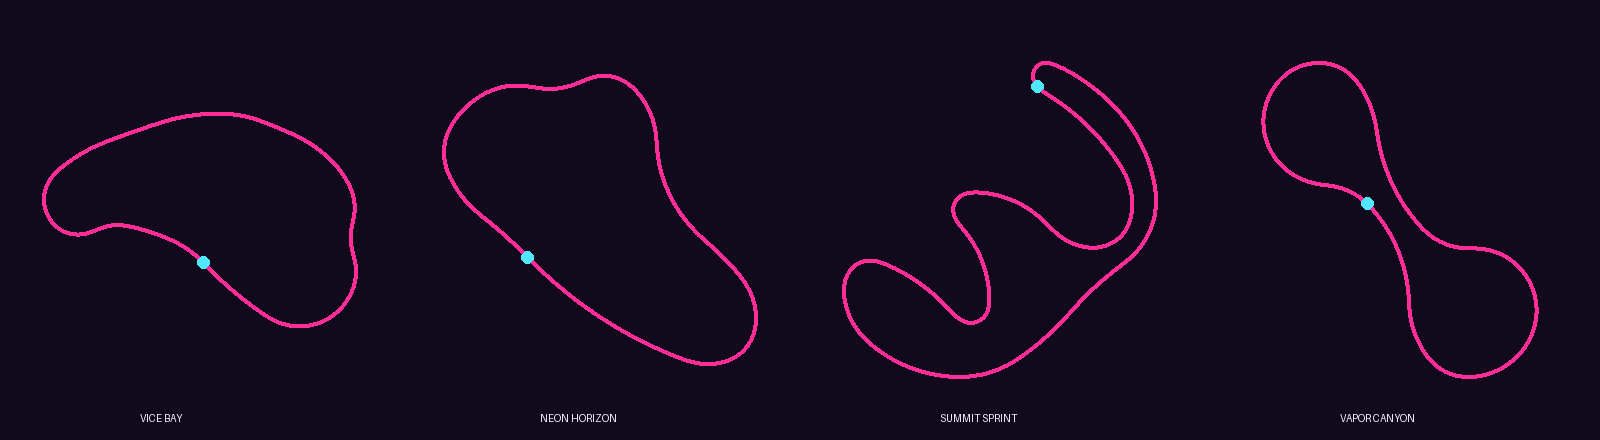
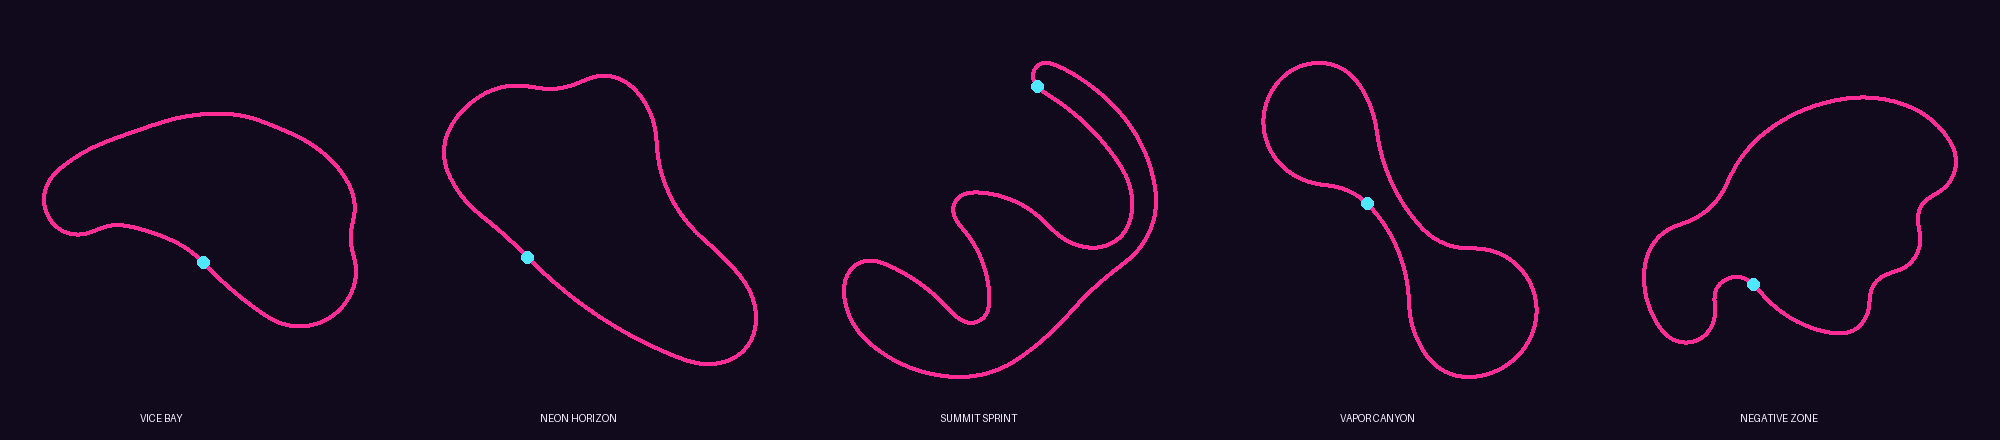
Add Negative Zone — a black-and-white themed circuit, and the theme system
The fifth event, and the first with its own LOOK. TrackDef gains an
optional `theme` field; because the active def is resolved at module
evaluation, a theme can flip the palette at its sources with zero
runtime cost:

- 'negative' develops the world to stark monochrome: the atmosphere
  calibration goes achromatic (near-black zenith to white horizon,
  pure white key light, grey fill and bounce, neutral Mie collar), the
  ambient floors grey out, the kerbs paint black-and-white, and the
  master stroke is the grade — saturation zero, contrast up to 0.34,
  neutral split-tone. One knob converts every material, the water, the
  effects and the sky in a single pass. The HUD deliberately keeps its
  neon identity so the UI still reads as NEON DRIFT.

The circuit itself matches the look: a jagged BOLT silhouette —
five alternating sawtooth teeth (+/-90-100 degrees), a long flat-out
blade along a monochrome sea, a notch, and a closing +/-155 hairpin
complex onto the line. Waypoint-designed, closure residual 5 mm,
1.65 km, guardrails throughout (the Vapor Canyon lesson).

Gate: clean PASS first try — 24/24 laps, median 1:04, spread 46s-1:17.
Five events on the select screen; silhouette chart regenerated.

diff --git a/src/world/TrackDefs.ts b/src/world/TrackDefs.ts
@@ -81,6 +81,12 @@ export interface TrackDef {
   /** which set of bespoke scenery dressers runs — see Scenery.init */
   kit: 'coastal' | 'gridline';
   /**
+   * Optional per-circuit look. 'negative' develops the world to stark black
+   * and white: achromatic sky calibration, zero saturation in the grade,
+   * black-and-white kerb paint. Absent = the synthwave dusk.
+   */
+  theme?: 'negative';
+  /**
    * Race length in laps. 1 makes the event a SPRINT: one standing-start run
    * from the line back round to it, presented without a lap counter. The
    * engine's closed-loop invariants (cyclic centreline, checkpoints, AI line)
@@ -563,9 +569,101 @@ const VAPOR_CANYON: TrackDef = {
 };
 
 // ===========================================================================
+//  NEGATIVE ZONE — black and white, all edges, no comfort
+//
+//  The first themed circuit: `theme: 'negative'` develops the whole world to
+//  monochrome at boot (Atmosphere targets go achromatic, the grade's
+//  saturation drops to zero, the kerbs paint black-and-white). The silhouette
+//  matches the identity: a jagged BOLT — five sawtooth teeth up the east
+//  edge, a long fast blade, and a closing hairpin complex. Waypoint-designed,
+//  closure residual 5 mm.
+// ===========================================================================
+const NEGATIVE_ZONE: TrackDef = {
+  id: 'negative-zone',
+  name: 'Negative Zone',
+  dressLabel: 'developing the negative',
+  kit: 'gridline',
+  theme: 'negative',
+  laps: 3,
+  legs: [
+    [172, -46.71],   // v0  0.000 start straight, drifting left
+    [89, -100.76],   // v1  0.104 tooth 1 (left)
+    [69, 88.52],     // v2  0.158 tooth 2 (right)
+    [100, -102.64],  // v3  0.200 tooth 3 (left)
+    [69, 90.15],     // v4  0.260 tooth 4 (right)
+    [100, -96.84],   // v5  0.302 tooth 5 (left)
+    [97, -36.27],    // v6  0.363 the blade begins
+    [112, -29.77],   // v7  0.422 blade sweeper
+    [151, -28.52],   // v8  0.489 blade flat-out
+    [119, -31.22],   // v9  0.581 blade exit
+    [111, 52.62],    // v10 0.653 the notch (right)
+    [93, -64.67],    // v11 0.721 notch out (left)
+    [125, -46.74],   // v12 0.777 west sweep
+    [141, -154.00],  // v13 0.853 THE BOLT — closing hairpin left
+    [102, 157.05],   // v14 0.938 ...and its mirror right, onto the line
+  ],
+  startHeading: -2.6,
+  elevation: [
+    [0.000, 5.0], [0.100, 6.0], [0.160, 9.0], [0.200, 7.0],
+    [0.260, 10.0], [0.300, 8.0], [0.363, 12.0], [0.490, 16.0],
+    [0.581, 14.0], [0.653, 10.0], [0.721, 12.0], [0.777, 9.0],
+    [0.853, 7.0], [0.938, 5.5],
+  ],
+  halfWidth: [
+    [0.000, 8.8], [0.090, 8.0], [0.160, 7.2], [0.300, 7.2],
+    [0.363, 7.6], [0.490, 8.0], [0.653, 7.0], [0.721, 6.6],
+    [0.777, 7.2], [0.853, 7.6], [0.905, 6.8], [0.960, 8.2],
+  ],
+  bank: [
+    [0.000, 0],
+    [0.115, 10], [0.175, -10], [0.225, 10], [0.280, -10], [0.330, 8],
+    [0.400, 6], [0.490, 8], [0.600, 8],
+    [0.680, -8], [0.740, 8], [0.810, 6],
+    [0.880, 14], [0.925, 4], [0.955, -14], [0.990, -2],
+  ],
+  zones: [
+    { t0: 0.000, fade: 0.016, name: 'start',
+      nearL: [0, -0.4, 1.6], farL: 14, farDL: 110, rockL: 0.2, shoulderL: 7, surfL: Surface.Grass, wallL: WALL_GUARDRAIL, wallOffL: 3.4,
+      nearR: [-0.3, -1.2, -2.6], farR: 12, farDR: 110, rockR: 0.3, shoulderR: 7, surfR: Surface.Dirt, wallR: WALL_GUARDRAIL, wallOffR: 3.6,
+      cobble: 0, kerb: 1 },
+    { t0: 0.095, fade: 0.012, name: 'teeth',
+      nearL: [0, -0.4, 1.8], farL: 18, farDL: 100, rockL: 0.45, shoulderL: 5, surfL: Surface.Dirt, wallL: WALL_GUARDRAIL, wallOffL: 2.9,
+      nearR: [-0.3, -1.2, -3.0], farR: 14, farDR: 100, rockR: 0.45, shoulderR: 5, surfR: Surface.Dirt, wallR: WALL_GUARDRAIL, wallOffR: 2.9,
+      cobble: 0, kerb: 1 },
+    { t0: 0.355, fade: 0.020, name: 'blade',
+      nearL: [0, -0.5, 1.6], farL: 22, farDL: 120, rockL: 0.3, shoulderL: 8, surfL: Surface.Grass, wallL: WALL_GUARDRAIL, wallOffL: 3.2,
+      nearR: [-0.4, -1.6, -3.0], farR: -6, farDR: 80, rockR: 0.1, shoulderR: 11, surfR: Surface.Sand, wallR: WALL_NONE, wallOffR: 0,
+      cobble: 0, kerb: 1 },
+    { t0: 0.645, fade: 0.014, name: 'notch',
+      nearL: [0, -0.5, 1.8], farL: 16, farDL: 110, rockL: 0.35, shoulderL: 6, surfL: Surface.Grass, wallL: WALL_GUARDRAIL, wallOffL: 2.7,
+      nearR: [-0.3, -1.4, -3.6], farR: 12, farDR: 100, rockR: 0.35, shoulderR: 6, surfR: Surface.Grass, wallR: WALL_GUARDRAIL, wallOffR: 2.7,
+      cobble: 0, kerb: 1 },
+    { t0: 0.770, fade: 0.014, name: 'sweep',
+      nearL: [0, -0.4, 1.6], farL: 14, farDL: 110, rockL: 0.25, shoulderL: 7, surfL: Surface.Grass, wallL: WALL_GUARDRAIL, wallOffL: 3.2,
+      nearR: [-0.4, -1.6, -3.4], farR: 10, farDR: 100, rockR: 0.3, shoulderR: 7, surfR: Surface.Grass, wallR: WALL_GUARDRAIL, wallOffR: 3.2,
+      cobble: 0, kerb: 1 },
+    { t0: 0.845, fade: 0.012, name: 'bolt',
+      nearL: [0, -0.4, 1.6], farL: 12, farDL: 100, rockL: 0.3, shoulderL: 6, surfL: Surface.Grass, wallL: WALL_GUARDRAIL, wallOffL: 2.7,
+      nearR: [-0.3, -1.2, -3.0], farR: 10, farDR: 100, rockR: 0.3, shoulderR: 6, surfR: Surface.Grass, wallR: WALL_GUARDRAIL, wallOffR: 2.7,
+      cobble: 0, kerb: 1 },
+  ],
+  tunnel: null,
+  bridge: null,
+  boostPads: [
+    { t0: 0.0400, t1: 0.0570, lat: -3.0, hw: 2.0 },
+    { t0: 0.0400, t1: 0.0570, lat: 3.0, hw: 2.0 },
+    { t0: 0.5200, t1: 0.5370, lat: -2.9, hw: 1.9 },
+    { t0: 0.5200, t1: 0.5370, lat: 2.9, hw: 1.9 },
+    { t0: 0.8000, t1: 0.8170, lat: 0.0, hw: 2.6 },
+  ],
+  boxRows: [0.070, 0.140, 0.220, 0.310, 0.400, 0.470, 0.560, 0.630, 0.740, 0.890],
+  hoardingZones: [[0, 0.09], [0.42, 0.60]],
+};
+
+// ===========================================================================
 //  Registry + active-track resolution
 // ===========================================================================
-export const TRACKS: TrackDef[] = [SUNSET_BAY, NEON_HORIZON, SUMMIT_SPRINT, VAPOR_CANYON];
+export const TRACKS: TrackDef[] = [SUNSET_BAY, NEON_HORIZON, SUMMIT_SPRINT, VAPOR_CANYON, NEGATIVE_ZONE];
 
 export const TRACK_STORAGE_KEY = 'kr.track';
 

diff --git a/src/render/Atmosphere.ts b/src/render/Atmosphere.ts
@@ -25,6 +25,7 @@
  * ============================================================================
  */
 import * as THREE from 'three';
+import { ACTIVE_TRACK } from '../world/TrackDefs';
 import { createNoise4D } from 'simplex-noise';
 
 // --- art bible constants -----------------------------------------------------
@@ -82,16 +83,19 @@ export const SUN_DIRECTION = (() => {
   // is untouched by construction
   return new THREE.Vector3(x * c - z * s, v.y, x * s + z * c).normalize();
 })();
+/** The negative theme flattens every light to achromatic. */
+const NEG = ACTIVE_TRACK.theme === 'negative';
 /**
  * Key light colour — synthwave restyle. The bible's golden-hour 0xffd9a8 moves
  * to a warm neon pink; still warm enough to read as a low sun, saturated
- * enough that every lit flank carries the magenta half of the split.
+ * enough that every lit flank carries the magenta half of the split. Under
+ * the negative theme the key is pure white — film lighting, not stage.
  */
-export const SUN_LIGHT_COLOR = 0xffb4c4;
+export const SUN_LIGHT_COLOR = NEG ? 0xffffff : 0xffb4c4;
 /** Ground bounce follows the sand/tarmac shift: dusty violet, not amber. */
-export const GROUND_BOUNCE_COLOR = 0x9a62b8;
+export const GROUND_BOUNCE_COLOR = NEG ? 0x9a9a9a : 0x9a62b8;
 /** Cool fill goes full cyan — the other half of the synthwave split. */
-export const SKY_FILL_COLOR = 0x7edcff;
+export const SKY_FILL_COLOR = NEG ? 0xc4c4c8 : 0x7edcff;
 /**
  * Direction TOWARD the cool fill: 35° up, on the ANTI-solar side.
  *
@@ -144,8 +148,8 @@ export const SKY_FILL_DIRECTION = new THREE.Vector3(
  * Rayleigh gains against these at boot, so the dome, the env map and the fog
  * all land on the new palette together.
  */
-export const SKY_ZENITH_TARGET = 0x4a54c8;
-export const SKY_HORIZON_TARGET = 0xffaec6;
+export const SKY_ZENITH_TARGET = NEG ? 0x121216 : 0x4a54c8;
+export const SKY_HORIZON_TARGET = NEG ? 0xf0f0f0 : 0xffaec6;
 
 // --- model constants ---------------------------------------------------------
 
@@ -186,7 +190,7 @@ const RAYLEIGH_BACKSCATTER = 0.40;
 /** Arbitrary radiometric scale; the calibration layer removes the ambiguity. */
 const SUN_ENERGY = 22;
 /** Aerosols run magenta — this is what gives the disc its neon collar. */
-const MIE_TINT = [1.0, 0.62, 0.78];
+const MIE_TINT = NEG ? [1.0, 1.0, 1.0] : [1.0, 0.62, 0.78];
 /**
  * Elevation (dir.y) at which the horizon gain has fully handed over to zenith.
  * 0.42 rather than 0.35: the warm band has to survive up to ~25° or the sky

diff --git a/src/render/PostFX.ts b/src/render/PostFX.ts
@@ -29,6 +29,7 @@
  * ============================================================================
  */
 import * as THREE from 'three';
+import { ACTIVE_TRACK } from '../world/TrackDefs';
 import {
   BloomEffect,
   BlendFunction,
@@ -723,9 +724,12 @@ export class GradeEffect extends Effect {
         // hair of headroom at the same time.
         // Synthwave split-tone: cyan shadows, magenta highlights. Same total
         // luminance discipline as the teal/amber pair it replaces — the tints
-        // rotate hue, they do not add energy.
-        ['coolTint', new THREE.Uniform(new THREE.Vector3(0.868, 1.005, 1.085))],
-        ['warmTint', new THREE.Uniform(new THREE.Vector3(1.105, 0.955, 1.045))],
+        // rotate hue, they do not add energy. The negative theme runs both
+        // neutral: a split-tone on a monochrome frame is just a colour cast.
+        ['coolTint', new THREE.Uniform(ACTIVE_TRACK.theme === 'negative'
+          ? new THREE.Vector3(1.0, 1.0, 1.0) : new THREE.Vector3(0.868, 1.005, 1.085))],
+        ['warmTint', new THREE.Uniform(ACTIVE_TRACK.theme === 'negative'
+          ? new THREE.Vector3(1.0, 1.0, 1.0) : new THREE.Vector3(1.105, 0.955, 1.045))],
         // Additive teal lift on the bottom of the curve — art bible §2 asks for
         // a #a8c8ff sky fill in the shadows, and nothing multiplicative can
         // produce it. Sized to sit just above the noise floor of an 8-bit write.
@@ -1267,11 +1271,12 @@ export class PostFX {
     const grade = new GradeEffect({
       samples,
       exposure: 1.05,
-      contrast: 0.18,
-      // A notch up for the neon palette — the split-tone rotates hue, this
-      // makes the rotated colour commit.
-      saturation: 1.22,
-      vignette: 0.24,
+      // The negative theme is THE grade: saturation zero develops the whole
+      // world to black and white in one knob, and the contrast comes up to
+      // make it graphic rather than merely grey.
+      contrast: ACTIVE_TRACK.theme === 'negative' ? 0.34 : 0.18,
+      saturation: ACTIVE_TRACK.theme === 'negative' ? 0.0 : 1.22,
+      vignette: ACTIVE_TRACK.theme === 'negative' ? 0.30 : 0.24,
       // Trimmed with the shadow rolloff added in the shader — the grain was
       // never the coloured speckle the review saw, but at 0.012 flat it was
       // still +/-1.8 counts of white noise sitting on top of the darkest eighth

diff --git a/src/render/Sky.ts b/src/render/Sky.ts
@@ -86,7 +86,7 @@ import {
   buildSkyFragmentShader,
   hazeGlsl,
 } from './Atmosphere';
-import { HAS_TUNNEL, TUNNEL_T0, TUNNEL_T1 } from '../world/TrackLayout';
+import { ACTIVE_TRACK, HAS_TUNNEL, TUNNEL_T0, TUNNEL_T1 } from '../world/TrackLayout';
 
 // --- tuning ------------------------------------------------------------------
 
@@ -456,8 +456,8 @@ const LATERAL_BOUNCE_SLOPE = -0.14;
  */
 const FLOOR_IRRADIANCE = 0.185;
 // Synthwave: the colour of every unlit pixel goes violet, matching the indigo
-// zenith the calibration now targets.
-const FLOOR_COLOR = 0x8272c8;
+// zenith the calibration now targets. The negative theme greys it out.
+const FLOOR_COLOR = ACTIVE_TRACK.theme === 'negative' ? 0x9a9aa0 : 0x8272c8;
 /**
  * The same floor inside an interior volume, warm sodium instead of teal. The
  * tunnel's premise is sodium strips; rock that falls off the bottom of the
@@ -473,8 +473,8 @@ const FLOOR_COLOR = 0x8272c8;
  */
 const INTERIOR_FLOOR_IRRADIANCE = 0.70;
 // The tunnel premise moves from sodium strips to neon: unlit bore rock reads
-// magenta-warm instead of amber.
-const INTERIOR_FLOOR_COLOR = 0xb64a92;
+// magenta-warm instead of amber — or bare fluorescent grey on the negative.
+const INTERIOR_FLOOR_COLOR = ACTIVE_TRACK.theme === 'negative' ? 0xc8c8c8 : 0xb64a92;
 /**
  * Warm penumbra band, art bible §2 ("long, soft, warm-tinted penumbra").
  * Added where the shadow test is partial, peaking at the half-shadow line and

diff --git a/src/world/TrackGeometry.ts b/src/world/TrackGeometry.ts
@@ -23,6 +23,7 @@ import type { Ctx } from '../types';
 import { Surface } from '../types';
 import type { Track } from './Track';
 import {
+  ACTIVE_TRACK,
   BOOST_PADS, BRIDGE_T0, BRIDGE_T1, FASCIA_OFF, GRID_BOX_HL, GRID_BOX_HW,
   GRID_LAT, HAS_BRIDGE, HAS_TUNNEL, KERB_HS, KERB_QS, KERB_W, PARAPET_OFF, SEA_Y,
   SKIRT_W, TUNNEL_CLEAR, TUNNEL_H, TUNNEL_T0, TUNNEL_T1, WALL_GUARDRAIL,
@@ -42,7 +43,7 @@ import { registerPrewarm } from '../core/Prewarm';
 // was tuned against those luminances and rides on top of these.
 const C_TARMAC = new THREE.Color('#42425e');
 const C_RACE = new THREE.Color('#373752');
-const C_KERB_R = new THREE.Color('#ff2d95');
+const C_KERB_R = new THREE.Color(ACTIVE_TRACK.theme === 'negative' ? '#141414' : '#ff2d95');
 const C_KERB_W = new THREE.Color('#e6f8ff');
 const C_SAND = new THREE.Color('#d9b9de');
 const C_GRASS = new THREE.Color('#2f9c85');

diff --git a/src/ui/ui.css b/src/ui/ui.css
@@ -1861,8 +1861,8 @@ html[data-touch][data-touch-hand="left"] .kr .kr-pos {
   color: rgba(255, 252, 244, 0.62);
   line-height: 1.35;
 }
-.kr-s-track .kr-roster { grid-template-columns: repeat(4, minmax(0, 23vmin)); justify-content: center; }
-@media (max-aspect-ratio: 1/1) { .kr-s-track .kr-roster { grid-template-columns: repeat(2, minmax(0, 42vmin)); } }
+.kr-s-track .kr-roster { grid-template-columns: repeat(5, minmax(0, 19.5vmin)); justify-content: center; }
+@media (max-aspect-ratio: 1/1) { .kr-s-track .kr-roster { grid-template-columns: repeat(2, minmax(0, 40vmin)); } }
 
 .kr-stats { margin-top: 1vmin; display: flex; flex-direction: column; gap: 0.55vmin; }
 .kr-stat { display: grid; grid-template-columns: 4.6em 1fr; align-items: center; gap: 0.6em; }

diff --git a/src/ui/Menus.ts b/src/ui/Menus.ts
@@ -23,6 +23,7 @@ const TRACK_TAGLINES: Record<string, string> = {
   'neon-horizon': '3 laps — shore straight, ridge climb, banked carousel',
   'summit-sprint': 'Sprint — one flying run over the mountain, hairpins and a summit tunnel',
   'vapor-canyon': '3 laps — tunnel dive, river flat-out, wall carousel, canyon bridge',
+  'negative-zone': '3 laps — the sawtooth, the blade, and the bolt. In black and white.',
 };
 
 /** card accent per circuit */
@@ -31,6 +32,7 @@ const TRACK_ACCENTS: Record<string, string> = {
   'neon-horizon': '#ff2d95',
   'summit-sprint': '#4fe8ff',
   'vapor-canyon': '#b44fff',
+  'negative-zone': '#f4f2ff',
 };
 
 /**

diff --git a/src/render/Materials.ts b/src/render/Materials.ts
@@ -57,6 +57,7 @@
  * ============================================================================
  */
 import * as THREE from 'three';
+import { ACTIVE_TRACK } from '../world/TrackDefs';
 import { Quality, type Ctx, type System } from '../types';
 import {
   brickField,
@@ -2527,7 +2528,7 @@ export class Materials implements System {
       b: macroField(MACRO_RES, { freq: 3, octaves: 2, warp: 0.10, seed: 58, clip: 0.05 }),
     });
 
-    const red = rgb(0xff2d95);
+    const red = rgb(ACTIVE_TRACK.theme === 'negative' ? 0x141414 : 0xff2d95);
     const white = rgb(0xe6f8ff);
     const concreteC = rgb(0x9d9589);
     const rubberC = rgb(0x3a3a40);

diff --git a/README.md b/README.md
@@ -16,7 +16,7 @@ race under a permanent neon dusk: indigo overhead falling to a hot pink
 horizon, magenta kerbs against ice cyan, teal water, and a chase camera
 pointed straight down the sun's collar.
 
-Four events:
+Five events:
 
 | Event | Format | Character |
 |---|---|---|
@@ -24,6 +24,7 @@ Four events:
 | **Neon Horizon GP** | 3 laps · 1.4 km | Open-sky flow: shore straight at sea level, a ridge climb, a high banked carousel over the water, an off-camber chicane |
 | **Summit Sprint** | Sprint · 2.2 km | One flying run over the mountain — hairpin switchbacks, a tunnel bored through the summit at 54 m, then a plunge back to a seafront drag |
 | **Vapor Canyon** | 3 laps · 1.75 km | Over, under and along the gorge: a descending tunnel dive, a river flat-out, a banked carousel cut into the wall, and a bridge back across the canyon |
+| **Negative Zone** | 3 laps · 1.65 km | Black and white, all edges: five sawtooth teeth, a flat-out blade, and a closing hairpin bolt — the world develops to monochrome |
 
 ![The four circuits](docs/track-shapes.png)
 
@@ -43,7 +44,7 @@ npm run preview    # serve the production build
 ```
 
 Track select is in-game (title → circuit → racer), or force one with
-`?track=sunset-bay | neon-horizon | summit-sprint | vapor-canyon`.
+`?track=sunset-bay | neon-horizon | summit-sprint | vapor-canyon | negative-zone`.
 
 Publishing to VIVERSE: see [PUBLISH-VIVERSE.md](PUBLISH-VIVERSE.md).
 
